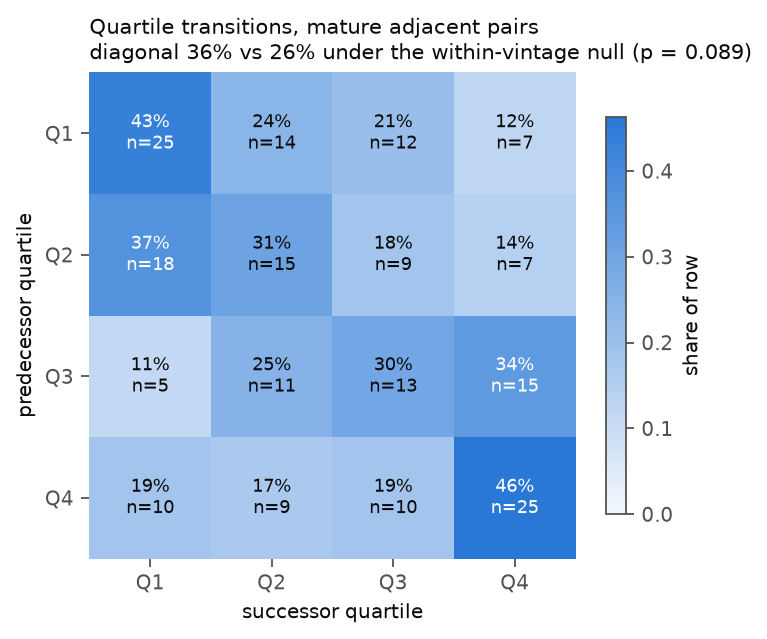
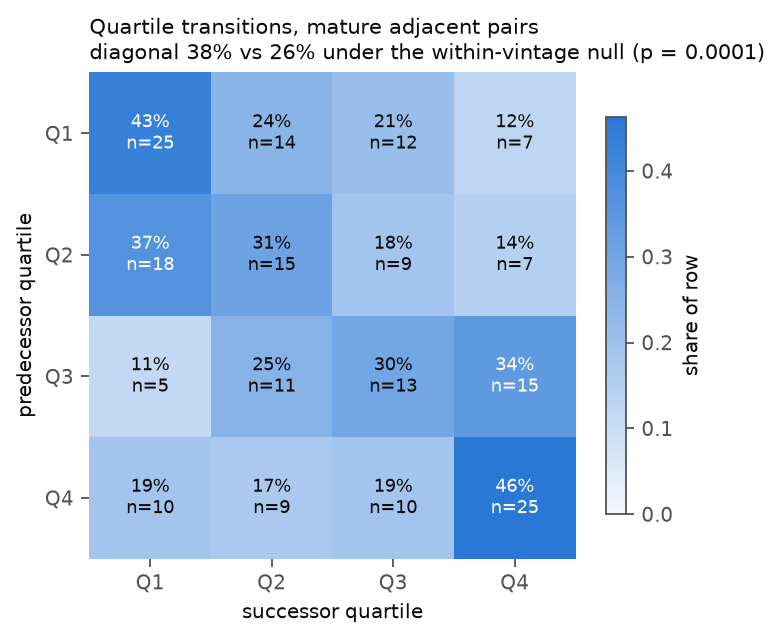
read figure captions off the data instead of hardcoding them
three captions and one filter were literals from the calpers-only run:
coefficients.png said the interval includes zero after it stopped doing
so, the heatmap said p = 0.089, the funnel had all seven bar heights
fixed, and vintage_coverage.png filtered to vintage >= 1998 and so
dropped every pre-2000 fund.

also suppresses a meaningless delta label where the funnel changes units
from funds to pairs.

diff --git a/analysis/make_figures.py b/analysis/make_figures.py
@@ -214,7 +214,11 @@ def figure_vintage_coverage() -> None:
         median_tvpi=("tvpi", "median"),
         unrealised=("unrealised", "median"),
     )
-    by = by[by.index >= 1998]
+    # No lower cutoff. There was a `>= 1998` here from when CalPERS was the
+    # only source and 1998 was its first vintage; kept after Oregon was pooled
+    # in, it silently dropped all 68 pre-2000 funds -- the entire realised half
+    # of the sample, and the reason for adding the second plan.
+    by = by[by.index.notna()]
 
     # Two panels rather than a twin axis: fund count and TVPI have unrelated
     # scales, and a shared axis invites a reading of "crossing" that would be
@@ -230,8 +234,10 @@ def figure_vintage_coverage() -> None:
             color=AQUA, zorder=4, label="unrealised share of value (shaded)")
     top.set_ylabel("funds")
     top.legend(frameon=False, fontsize=7.5, loc="upper left")
+    span = f"{int(by.index.min())}-{int(by.index.max())}"
     top.set_title(
-        "Vintage coverage: the sample is dominated by young, unrealised funds",
+        f"Vintage coverage, {span}: old funds are realised, recent ones are "
+        "still marks",
         loc="left", color=INK,
     )
     _style(top, ygrid=True)
@@ -284,9 +290,16 @@ def figure_transition_heatmap() -> None:
     ax.set_yticks(range(matrix.shape[0]), [f"Q{int(float(i))}" for i in counts.index])
     ax.set_xlabel("successor quartile")
     ax.set_ylabel("predecessor quartile")
+    # Read from the test output rather than restating it. This subtitle sat at
+    # "p = 0.089" from the one-plan run while the cells below it updated.
+    test = pd.read_csv(DATA / "transition_test.csv").iloc[0]
+    caption_obs = float(test["observed_diagonal_share"])
+    caption_null = float(test["null_mean"])
+    caption_p = float(test["p_value"])
     ax.set_title(
         "Quartile transitions, mature adjacent pairs\n"
-        "diagonal 36% vs 26% under the within-vintage null (p = 0.089)",
+        f"diagonal {caption_obs:.0%} vs {caption_null:.0%} under the "
+        f"within-vintage null (p = {caption_p:.4f})",
         loc="left", color=INK, fontsize=9.5,
     )
     for spine in ax.spines.values():

diff --git a/README.md b/README.md
@@ -135,8 +135,9 @@ pass.
 re-download both plans. Do that only if you want fresher data, and expect the
 numbers to move, because Oregon's archive will have shifted.
 
-The whole run takes a few minutes. Most of that is two simulation studies:
-the power calculation and a check on vintage-year errors.
+The whole run takes about eighty seconds, measured on a fresh clone. Most of
+that is two simulation studies: the power calculation and a check on
+vintage-year errors.
 
 ## What you get
 
@@ -163,7 +164,7 @@ analysis/                   one script per output
 
 ## How much you can trust it
 
-I checked the estimate six ways. None of them overturned it.
+I checked the estimate seven ways. None of them overturned it.
 
 **The estimator recovers a known answer.** I simulate fund histories with a
 persistence I choose myself, then run the real estimation code on them. Across
@@ -211,9 +212,10 @@ relationship is a straight line.
 **The quartile table says the same thing without any model.** Sort funds into
 four buckets by how they did against funds started the same year, then ask
 where the next fund lands. A bottom-quartile fund is followed by another
-bottom-quartile fund 45% of the time, against 25% if it were random. A
-top-quartile fund is followed by another top-quartile fund 47% of the time. Over
-205 pairs the odds of that pattern arising by chance are 1 in 10,000.
+bottom-quartile fund 43% of the time, against 25% if it were random. A
+top-quartile fund is followed by another top-quartile fund 46% of the time.
+Across all four buckets the fund stays put 38% of the time against 26% under
+chance, and over 205 pairs a permutation test puts that at p = 0.0001.
 
 **Reporting error is small.** 43 funds appear in both plans on the same
 reporting date. That is two independent readings of the same fund. Seven of

diff --git a/RESULTS.md b/RESULTS.md
@@ -208,8 +208,8 @@ regression coefficient, and invariant to any monotone transform of TVPI.
 **The quartile transition matrix now agrees.** Over 205 mature adjacent pairs
 the diagonal holds 38.1% of the mass against a within-vintage permutation null
 of 25.6%, p = 0.0001. The corners are where the mass is: a bottom-quartile fund
-is followed by another bottom-quartile fund 45% of the time, a top-quartile
-fund by another top-quartile fund 47%. In the one-plan version this was the
+is followed by another bottom-quartile fund 43% of the time, a top-quartile
+fund by another top-quartile fund 46%. In the one-plan version this was the
 single suggestive result at p = 0.089; it is now the clearest one, and it is
 non-parametric.
 
